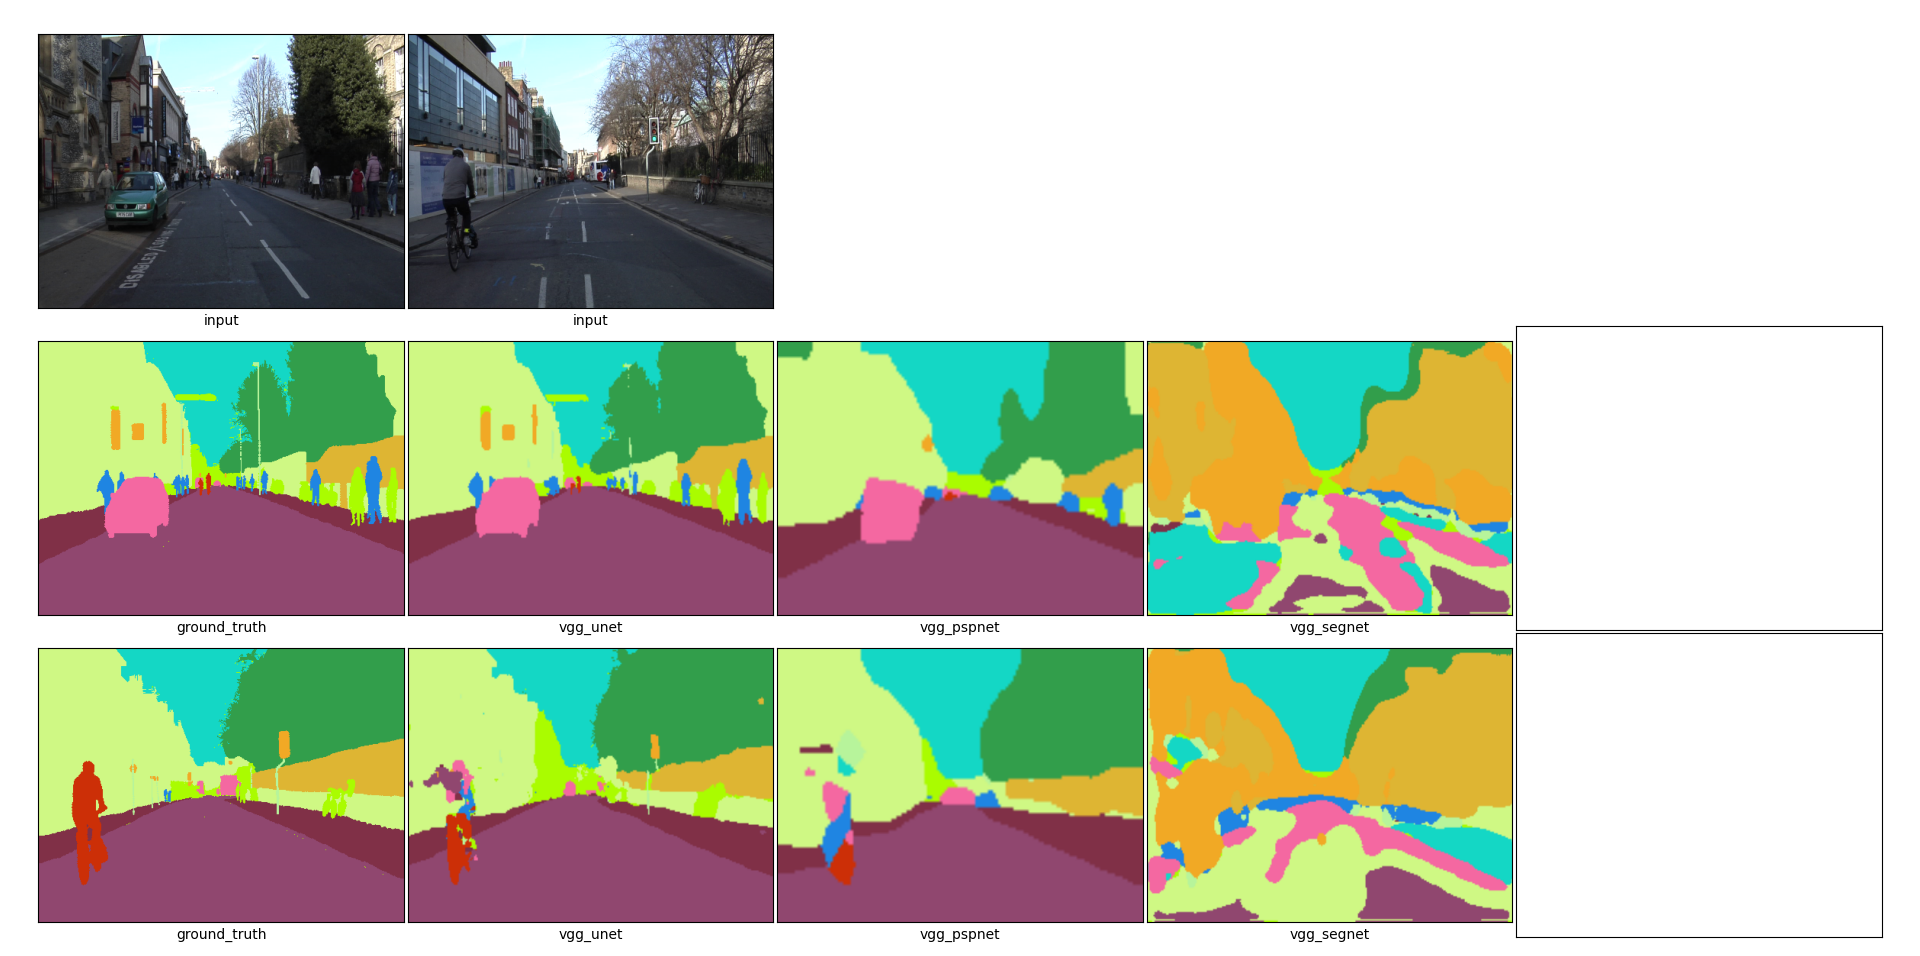
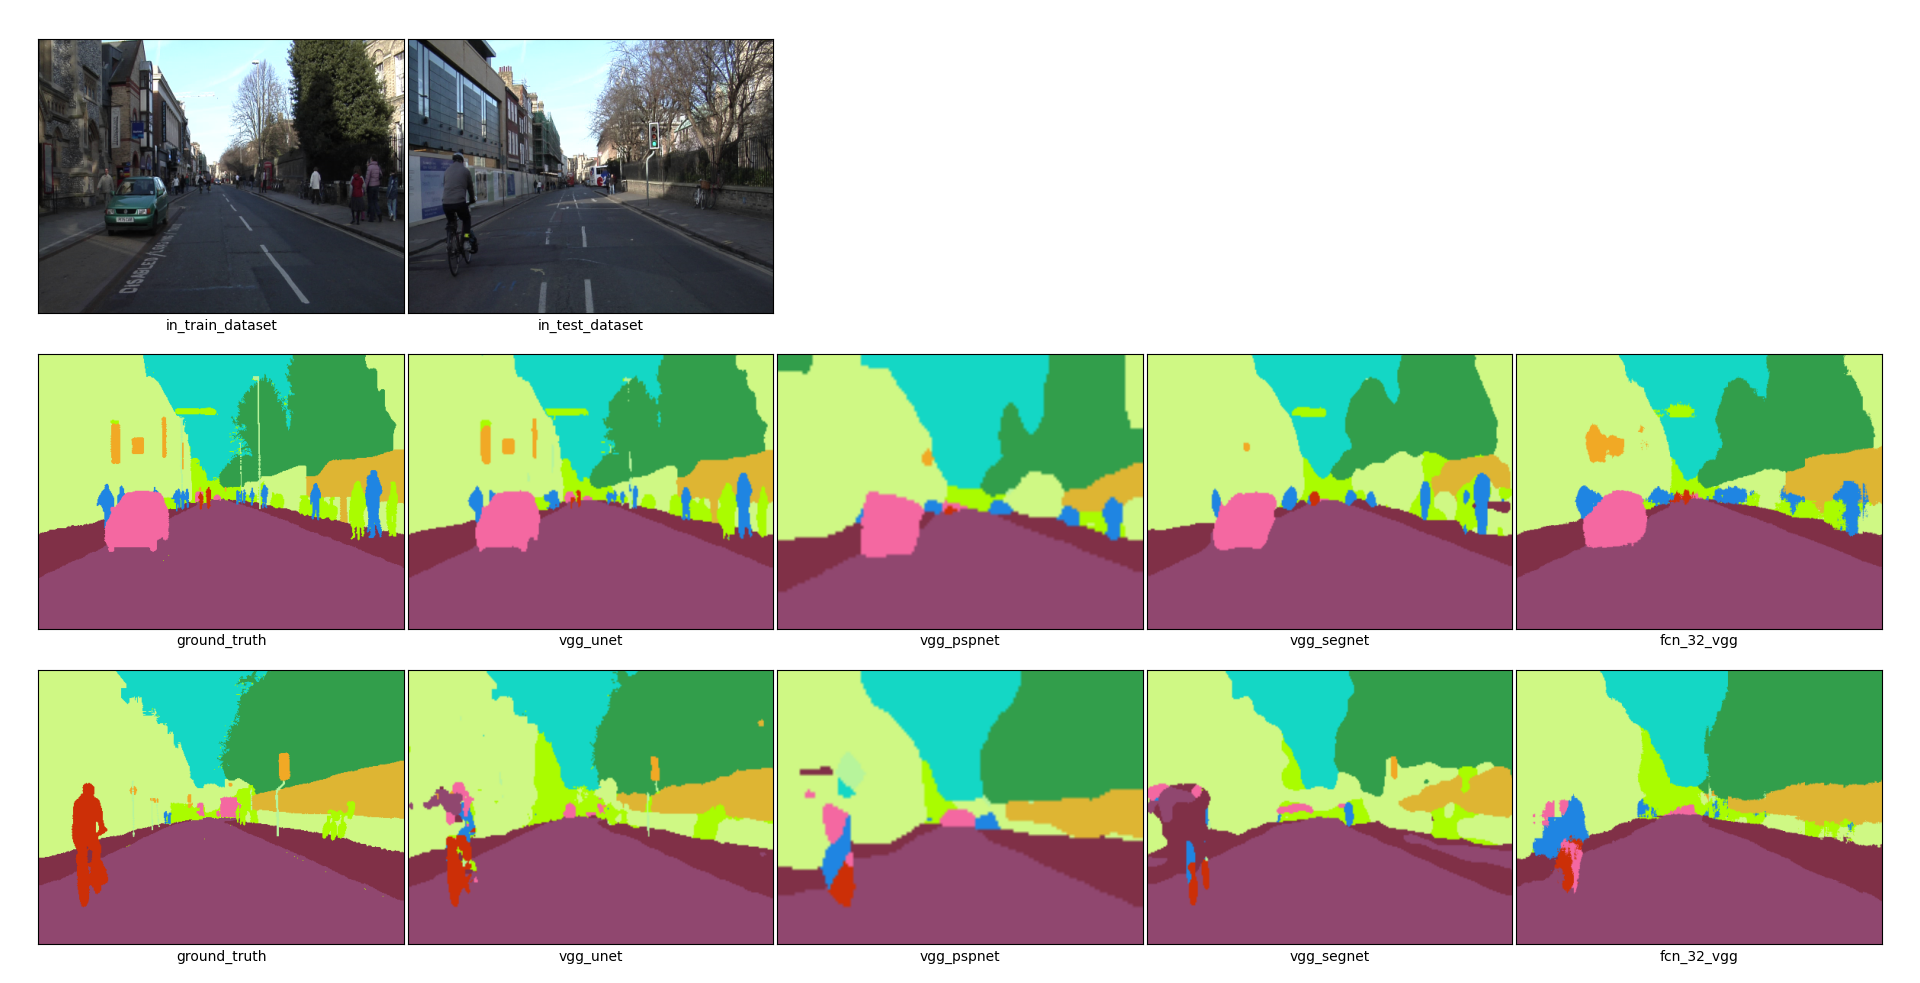
fix

diff --git a/testLoadModel.py b/testLoadModel.py
@@ -3,16 +3,16 @@ from keras_segmentation.data_utils.visualize_dataset import visualize_segmentati
 import cv2
 
 checkpoints_path = []
-# checkpoints_path.append("./saveModel/new/vgg_unet_1")
-# checkpoints_path.append("./saveModel/new/vgg_pspnet_1")
-# checkpoints_path.append("./saveModel/new/vgg_segnet_1")
-checkpoints_path.append("./saveModel/fcn_32_vgg_1")
+checkpoints_path.append("./saveModel/new/vgg_unet_1")
+checkpoints_path.append("./saveModel/new/vgg_pspnet_1")
+checkpoints_path.append("./saveModel/new/vgg_segnet_1")
+checkpoints_path.append("./saveModel/new/fcn_32_vgg_1")
 
 # for ia in checkpoints_path:
 # 	predict_multiple(
 # 		checkpoints_path=ia,
 # 		inp_dir="demo/images_preped_test_small",
-# 		out_dir="demo/output/New"
+# 		out_dir="demo/output/new1"
 # 	)
 
 # view summary
@@ -25,10 +25,10 @@ checkpoints_path.append("./saveModel/fcn_32_vgg_1")
 # 	cv2.imwrite(f"demo/ground_truth/{seg_path.split('/')[-1]}", seg_img)
 
 
-# for ia in checkpoints_path:
-# 	output = evaluate(
-# 		checkpoints_path=ia,
-# 		inp_images_dir="dataset1/images_prepped_test/",
-# 		annotations_dir = "dataset1/annotations_prepped_test/",
-# 	)
-# 	print(output)
+for ia in checkpoints_path:
+	output = evaluate(
+		checkpoints_path=ia,
+		inp_images_dir="dataset1/images_prepped_test/",
+		annotations_dir = "dataset1/annotations_prepped_test/",
+	)
+	print(output)

diff --git a/test2.py b/test2.py
@@ -3,8 +3,8 @@ import matplotlib.pyplot as plt
 from PIL import Image
 from os import listdir
 listName = ['0016E5_07530','0016E5_08159']
-# listNameNet = ['vgg_unet','vgg_pspnet','vgg_segnet','fcn_32_vgg']
-listNameNet = ['vgg_unet','vgg_pspnet','vgg_segnet']
+listNameNet = ['vgg_unet','vgg_pspnet','vgg_segnet','fcn_32_vgg']
+# listNameNet = ['vgg_unet','vgg_pspnet','vgg_segnet']
 ground_truth = "demo/ground_truth"
 pre_dict = "demo/output/New"
 in_img = "demo/images_preped_test_small"
@@ -32,11 +32,11 @@ axes[2,0].set_xlabel("ground_truth")
 
 for ia in listdir(pre_dict):
     if listName[0] in ia:
-        for ib in range(1,4):
+        for ib in range(1,5):
             axes[1,ib].imshow(Image.open(f"{pre_dict}/{listName[0]}_{listNameNet[ib-1]}_1.png"))
             axes[1,ib].set_xlabel(listNameNet[ib-1])
     elif listName[1] in ia:
-        for ib in range(1,4):
+        for ib in range(1,5):
             axes[2,ib].imshow(Image.open(f"{pre_dict}/{listName[1]}_{listNameNet[ib-1]}_1.png"))
             axes[2,ib].set_xlabel(listNameNet[ib-1])
     
